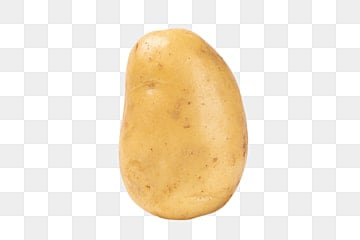
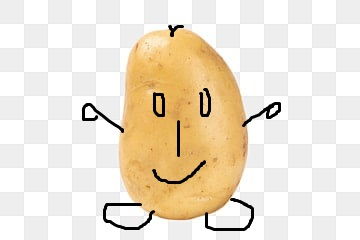
DGG

diff --git a/handsome.html b/handsome.html
@@ -1,22 +1,53 @@
 <!doctype html>
 <html lang="ko">
- <head>
-  <meta charset = "utf-8">
-  <title>상품 소개</title>
- </head>
- <body>
+
+<head>
+    <meta charset="utf-8">
+    <title>상품 소개</title>
+    <style>
+        .round1 {
+            border: 2px solid rgb(236, 218, 52);
+            border-top-left-radius: 20px;
+            border-top-right-radius: 20px;
+            border-bottom-left-radius: 20px;
+            border-bottom-right-radius: 20px;
+        }
+
+        #pos1 {
+            margin: 10px;
+        }
+
+        #pos2 {
+            width: 500px;
+        }
+
+        .세로박스{
+            display: flex;
+
+            flex-direction: column;
+        }
+    </style>
+</head>
+
+<body>
     <div>
         <fieldset>
             <legend>상품 소개</legend>
-            <h1>이문수</h1>
+            <h1 style="color: rgb(211, 180, 43)">이문수</h1>
             <p>멋있고 깜찍하고 섹시한 그를 지금 사신다면 추가로 이문수 이모티콘까지 서비스?!</p>
+            <p>이거 놓치면 후회하겠는걸? 사고싶다면 바로 밑에 있는 "회원가입 페이지" 를 클릭해!</p>
         </fieldset>
         <form>
             <input type="button" value="회원 가입 페이지" onclick="window.open('login.html')">
         </form>
     </div>
-    <div>
-        <img src="gamja.jpg" alt="이문수">
+    <div class="세로박스">
+        <img class="round1" id="pos1" src="gamja.jpg" alt="이문수">
+        <img class="round1" id="pos2" src="gamja1.jpg" alt="많은 이문수">
     </div>
- </body>
+</body>
+
+<!-- shift + alt + f : 자동 정렬 -->
+
+
 </html>
